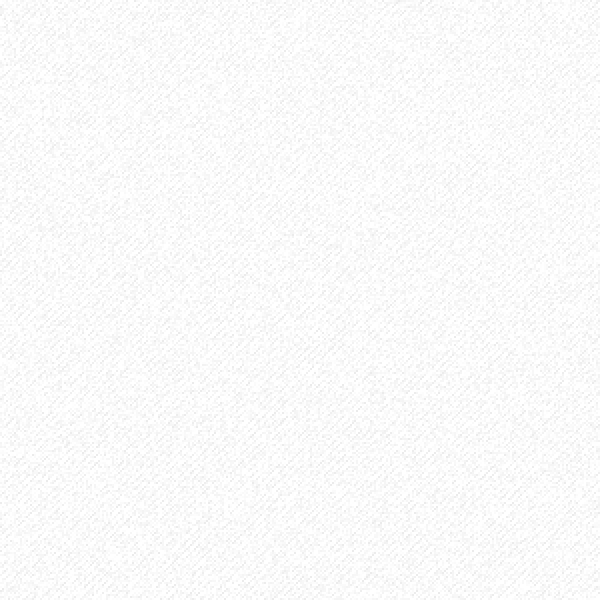
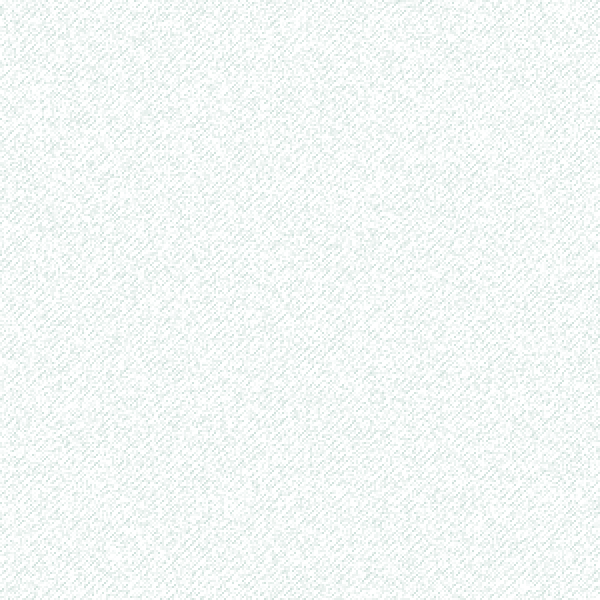
Try a little more color

Changed region(s): [[0.99, 0.84, 1.0, 0.87]]

diff --git a/app/assets/stylesheets/sampler.css.scss b/app/assets/stylesheets/sampler.css.scss
@@ -9,8 +9,10 @@
 
 // http://www.colourlovers.com/palette/1867884/Chinese_Menu
 
+$background-color: rgba(211, 186, 132, 0.1);
+
 body {
-  background: $white asset-url("groovepaper.png") repeat;
+  background: $background-color asset-url("groovepaper.png") repeat;
   font-family: 'Oxygen', 'Helvetica Neue', 'Helvetica', 'Arial', sans-serif;
 }
 
@@ -19,7 +21,7 @@ body {
   margin-left: auto;
   margin-right: auto;
   padding: 1em;
-  background: rgba(255, 255, 255, 0.5);
+  background: $background-color;
   color: #483E2B;
 }
 
@@ -28,7 +30,8 @@ h1, h2, h3 {
 }
 
 h1 {
-  background: asset-url("biglogo@2x.png") no-repeat 50% 50%;
+  @include filter(sepia(100%) brightness(0.3) opacity(95%));
+  background: asset-url("biglogo_white@2x.png") no-repeat 50% 50%;
   background-size: contain;
   text-indent: -9999px;
   width: 100%;
@@ -88,10 +91,12 @@ article {
   margin-top: 2em;
   margin-bottom: 2em;
 
+  $link-color: darken(#72B195, 15);
+
   a, a:visited {
-    color: #72B195;
+    color: $link-color;
     &:hover {
-      color: #72B195;
+      color: $link-color;
       text-decoration: underline;
     }
 
